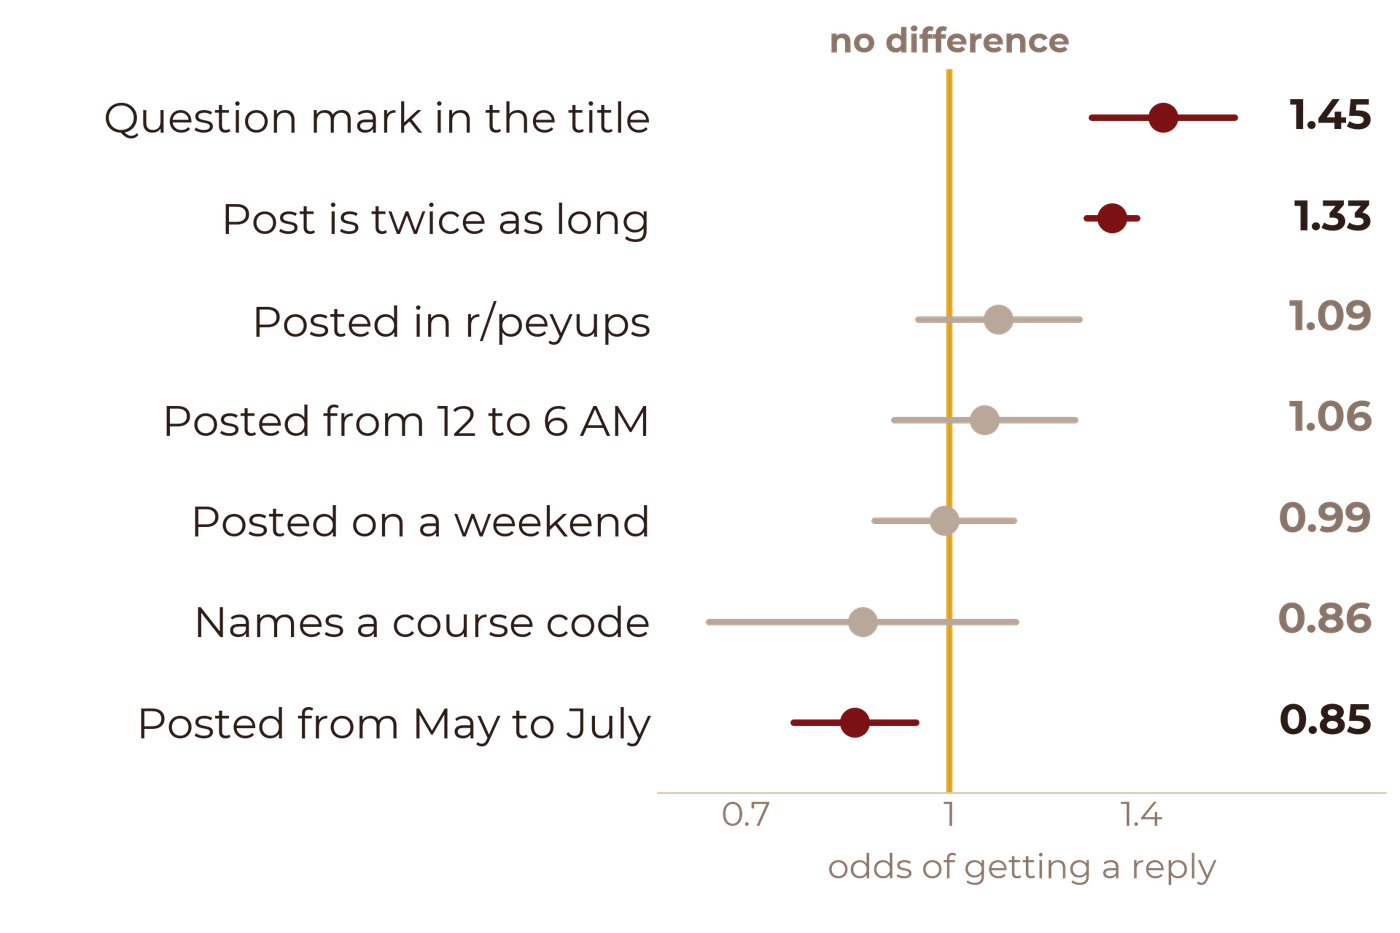
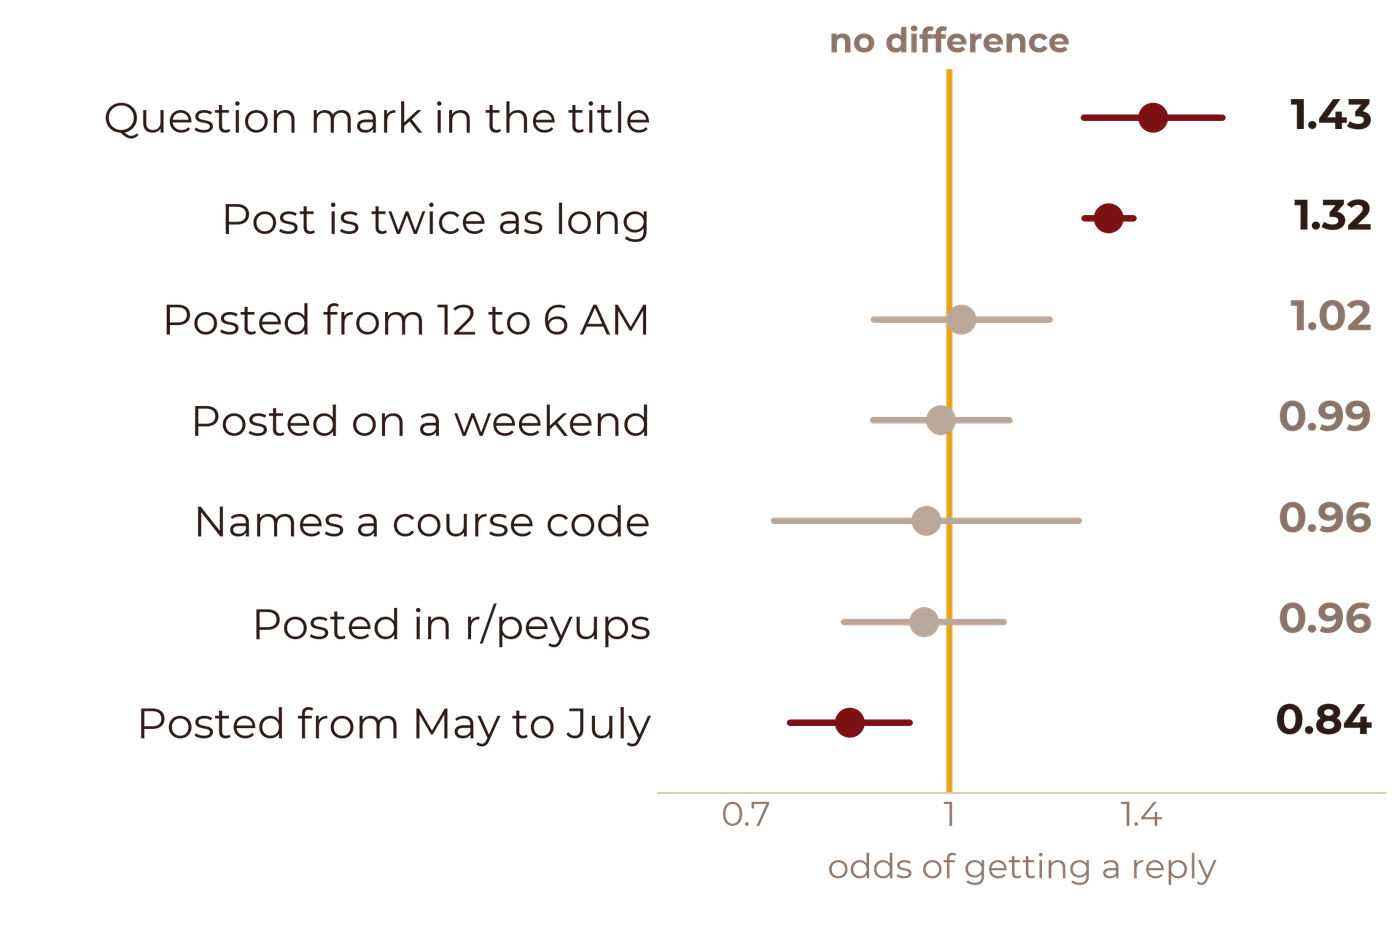
fix(blog): leave mod-team notices and bot comments out of the UPLB reply numbers
The UPLB Reddit post counted peyups-ModTeam removal notices and bot
accounts as replies. Without them, 34% of UPLB posts get no reply
(was 32%), the r/peyups UPLB risk ratio is 1.10 (was 1.20), and the
regression, topic and silent-day numbers shift slightly. The topic and
odds-ratio charts are redrawn and the post ends with a dated correction.

Claude-Session: https://claude.ai/code/session_01AY79FjUEbKnWyc9ohZDFJ5

diff --git a/src/app/blog/what-uplb-students-ask-on-reddit/page.js b/src/app/blog/what-uplb-students-ask-on-reddit/page.js
@@ -30,11 +30,11 @@ export const metadata = {
 const BASE = "/blog/what-uplb-students-ask-on-reddit";
 
 const NO_REPLY = [
-  ["r/peyups, about UPLB", "5,463", "30%"],
-  ["r/peyups, other campuses", "36,726", "25%"],
-  ["r/uplb", "596", "43%"],
+  ["r/peyups, about UPLB", "5,463", "33%"],
+  ["r/peyups, other campuses", "36,726", "30%"],
+  ["r/uplb", "596", "44%"],
   ["r/upelbi", "554", "33%"],
-  ["All posts about UPLB", "6,613", "32%"],
+  ["All posts about UPLB", "6,613", "34%"],
 ];
 
 const COURSES = [
@@ -127,7 +127,8 @@ export default function UplbRedditPage() {
           r/peyups covers every UP campus, so I counted a post as being about
           UPLB when it was on r/uplb or r/upelbi, or when its title or text said
           UPLB, Elbi, Los Baños or LB. That gave 7,353 posts. I dropped deleted
-          comments and AutoModerator. About 10% of the UPLB posts had been
+          comments, AutoModerator, the moderators&apos; removal notices and other
+          bot accounts. About 10% of the UPLB posts had been
           removed or deleted, and 87% of those have no replies, so I left them
           out of every reply number. Otherwise a moderator&apos;s decision would
           look like nobody answering. That leaves 6,613 posts. The method has
@@ -139,9 +140,9 @@ export default function UplbRedditPage() {
 
         <p>
           The first thing I checked was how many posts get no reply at all.
-          It&apos;s 32%, or 2,089 of the 6,613 (95% interval 30.5% to 32.7%).
+          It&apos;s 34%, or 2,254 of the 6,613 (95% interval 33.0% to 35.2%).
           Most posts get a comment or two. The median is one, and the top 10% of
-          posts hold 49% of all the comments. Many of the ten busiest threads
+          posts hold half of all the comments. Many of the ten busiest threads
           are stories and opinions, like a thread about how cheap the food in UPLB
           is (95 comments) or one about a deleted UP mail account (67).
         </p>
@@ -154,8 +155,8 @@ export default function UplbRedditPage() {
 
         <p>
           On r/peyups, a post about UPLB goes unanswered more often than a post
-          about another campus. The gap is five points, and the risk ratio is
-          1.20 (95% interval 1.15 to 1.26). The smaller subreddits don&apos;t
+          about another campus. The gap is three points, and the risk ratio is
+          1.10 (95% interval 1.06 to 1.15). The smaller subreddits don&apos;t
           fix that. r/uplb has the highest rate of the four, and its median
           first reply takes 2.1 hours against 0.8 on r/peyups.
         </p>
@@ -164,24 +165,24 @@ export default function UplbRedditPage() {
           The topic matters too. I grouped the 7,353 posts into 12 topics with a
           topic model (NMF) and named each group from its top words and sample
           titles. The no-reply rate differs between topics by more than chance
-          (chi-square test, p &lt; 0.001), from 39% for manual appeals to 23% for
+          (chi-square test, p &lt; 0.001), from 40% for manual appeals to 26% for
           UPCAT results. The difference is real but small, since Cramér&apos;s V
-          is only 0.08. SLAS and DOST questions come second at 37%.
+          is only 0.08. SLAS and DOST questions come second at 39%.
         </p>
 
         <Figure
           src={`${BASE}/topics.png`}
-          alt="Dot and line chart of the no-reply rate for each of 12 topics, from 39% for manual appeals to 23% for UPCAT results, with 95% intervals"
-          caption="No-reply rate by topic. The lines are 95% intervals and the gold line is the 32% average."
+          alt="Dot and line chart of the no-reply rate for each of 12 topics, from 40% for manual appeals to 26% for UPCAT results, with 95% intervals"
+          caption="No-reply rate by topic. The lines are 95% intervals and the gold line is the 34% average."
         />
 
         <p>
           Then I asked what goes with getting a reply. I fit a logistic
           regression on the 6,613 posts, where the outcome is whether a post got
-          any reply. A title with a question mark has odds of a reply 1.45 times
-          higher (95% interval 1.28 to 1.65). A post twice as long has odds 1.33
-          times higher (1.27 to 1.39). A post made from May to July has odds 0.85
-          times as high (0.76 to 0.94). Time of day, weekends, naming a course
+          any reply. A title with a question mark has odds of a reply 1.43 times
+          higher (95% interval 1.27 to 1.61). A post twice as long has odds 1.32
+          times higher (1.27 to 1.38). A post made from May to July has odds 0.84
+          times as high (0.76 to 0.93). Time of day, weekends, naming a course
           code and which subreddit the post is on all have intervals that cross
           1, so I can&apos;t tell them apart from no effect. This is correlation.
           It shows what goes with a reply and doesn&apos;t show what causes one.
@@ -190,16 +191,16 @@ export default function UplbRedditPage() {
 
         <Figure
           src={`${BASE}/replies.png`}
-          alt="Chart of the odds ratios from the regression, with a question mark in the title at 1.45 and a post twice as long at 1.33 clearly above 1"
+          alt="Chart of the odds ratios from the regression, with a question mark in the title at 1.43 and a post twice as long at 1.32 clearly above 1"
           caption="Odds ratios from the regression. The faded rows have intervals that cross 1."
         />
 
         <p>
-          Replies come fast when they come. Among the 4,524 posts that got a
+          Replies come fast when they come. Among the 4,359 posts that got a
           reply, half got their first one within 56 minutes. 77% got one within
           6 hours and 91% within 24 hours. After a silent day the odds drop. Of
-          all 6,613 posts, 68% got a reply, but 2,491 were still silent after 24
-          hours, and only 402 of those (16%) got a comment later.
+          all 6,613 posts, 66% got a reply, but 2,652 were still silent after 24
+          hours, and only 398 of those (15%) got a comment later.
         </p>
 
         <p>
@@ -247,6 +248,13 @@ export default function UplbRedditPage() {
         </p>
 
         <hr />
+
+        <p className="text-sm neo-muted">
+          Corrected on November 18, 2026. The first version counted the
+          moderators&apos; removal notices and bot comments as replies. The reply
+          numbers above now leave them out, so the no-reply rate is 34% instead
+          of 32%.
+        </p>
 
         <p className="text-sm neo-muted">
           The guide is at{" "}

diff --git a/src/data/blogs.js b/src/data/blogs.js
@@ -5,7 +5,7 @@ export const blogPosts = [
     slug: "what-uplb-students-ask-on-reddit",
     title: "What UPLB students ask on Reddit",
     date: "November 16, 2026",
-    excerpt: "Two years of r/peyups, r/uplb and r/upelbi, 6,613 UPLB posts, and the 32% that got no reply.",
+    excerpt: "Two years of r/peyups, r/uplb and r/upelbi, 6,613 UPLB posts, and the 34% that got no reply.",
     coverImage: "/blog/what-uplb-students-ask-on-reddit/cover.png",
   },
   {
